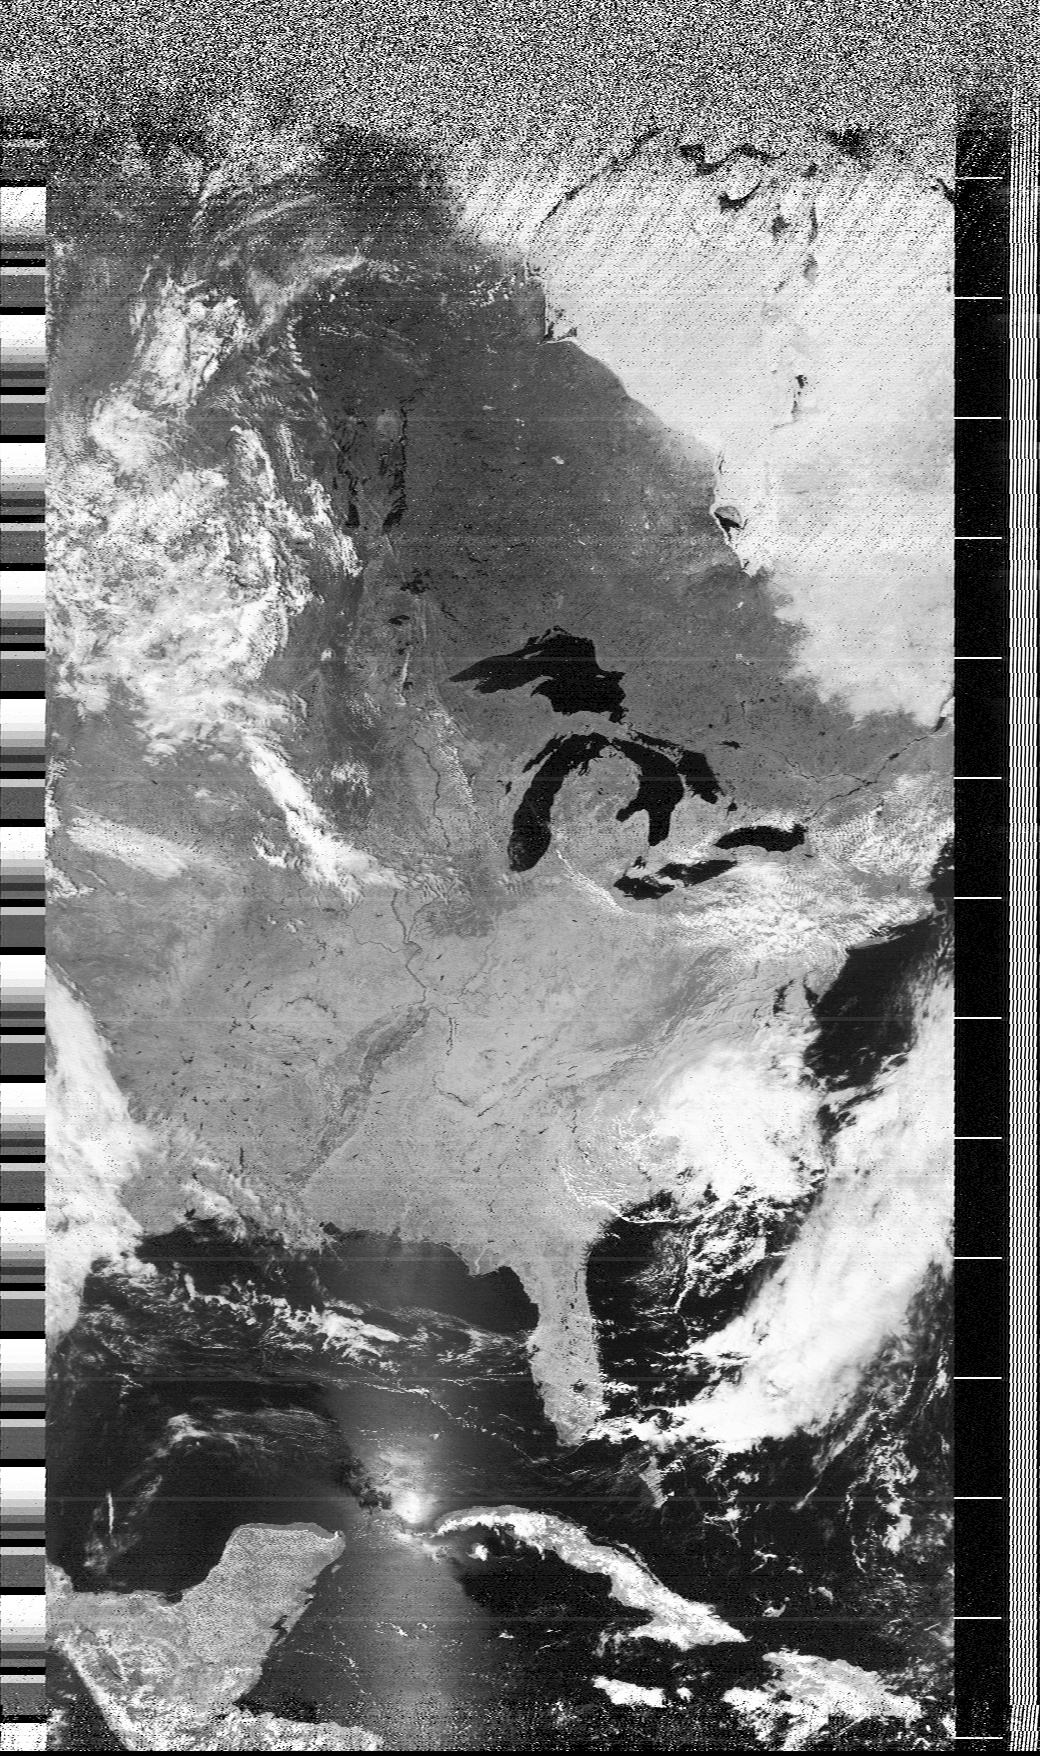
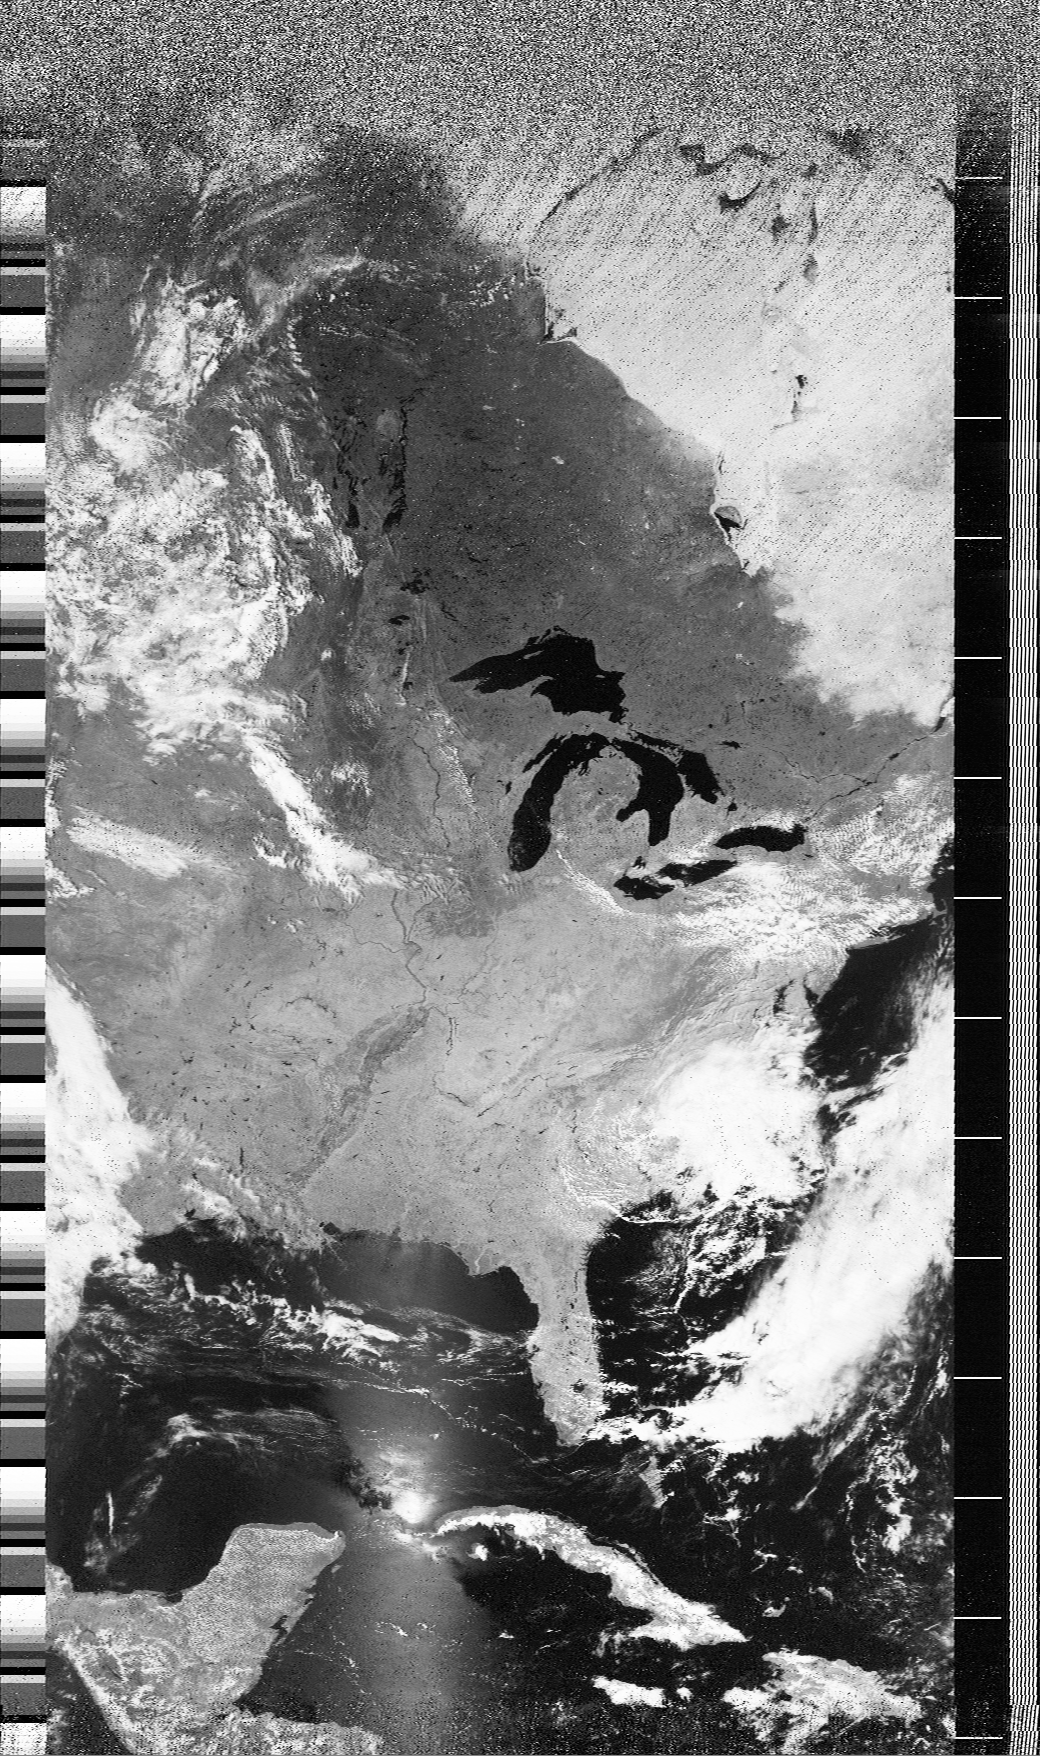
Better is the enemey of good enough

Changed region(s): [[0.0, 0.0, 1.0, 0.1538], [0.0, 0.9533, 1.0, 1.0]]

diff --git a/p.py b/p.py
@@ -50,6 +50,24 @@ def space_calibration(image_data):
     line_cal = zip(space_cala, space_calb)
     return line_cal
 
+def sync_normalization(image_data):
+    synca_start = 0
+    synca_end = 40
+    syncb_start = full_channel_width
+    syncb_end = full_channel_width + 40
+    for i, line in enumerate(image_data):
+        sync_combined = line[synca_start:synca_end] + line[syncb_start:syncb_end]
+        sync_mean = np.mean(sync_combined)
+        sync_high = np.median([value for value in sync_combined if value >= sync_mean])
+        sync_low = np.median([value for value in sync_combined if value < sync_mean])
+        sync_range = sync_high - sync_low
+        absolute_high = sync_range + (0.05 * sync_range)
+        absolute_low = 0.05 * sync_range
+        image_data[i] = np.clip(line, absolute_low, absolute_high)
+        image_data[i] = [int(map(p, absolute_low, absolute_high, 0, 255)) for p in line]
+
+    return image_data
+
 sync_width = 40
 space_mark_width = 45
 image_width = 909
@@ -160,11 +178,12 @@ if len(syncs):
 
 
     aligned_start = len(pre_syncs)
-    space_cal = space_calibration(new_pixels)
-    for i, line in enumerate(new_pixels):
-        new_pixels[i] = np.clip(line, min(space_cal[i]), max(space_cal[i]))
-        for j, pixel in enumerate(line):
-            new_pixels[i][j] = int(map(pixel, min(space_cal[i]), max(space_cal[i]), 0, 255))
+    # space_cal = space_calibration(new_pixels)
+    # for i, line in enumerate(new_pixels):
+    #     new_pixels[i] = np.clip(line, min(space_cal[i]), max(space_cal[i]))
+    #     for j, pixel in enumerate(line):
+    #         new_pixels[i][j] = int(map(pixel, min(space_cal[i]), max(space_cal[i]), 0, 255))
+    # new_pixels = sync_normalization(new_pixels)
     pixels = pre_syncs + new_pixels
 
 raw_images = {'A':[], 'B':[]}
@@ -184,11 +203,11 @@ for image in raw_images:
 
     print('Found {} useable lines.'.format(lines))
 
-    # print('Normalizing, Equalizing, & Scaling to 1-Byte Range')
-    # max_sample = max(pixels)
-    # min_sample = min(pixels)
-    # for i, pixel in enumerate(pixels):
-    #     pixels[i] = int(map(pixel, min_sample, max_sample, 0, 255))
+    print('Normalizing, Equalizing, & Scaling to 1-Byte Range')
+    max_sample = max(pixels)
+    min_sample = min(pixels)
+    for i, pixel in enumerate(pixels):
+        pixels[i] = int(map(pixel, min_sample, max_sample, 0, 255))
         # if pixels[i] < 0:
         #     pixels[i] = 0
         # pixels[i] = int((pixel / max_sample) * 255)
